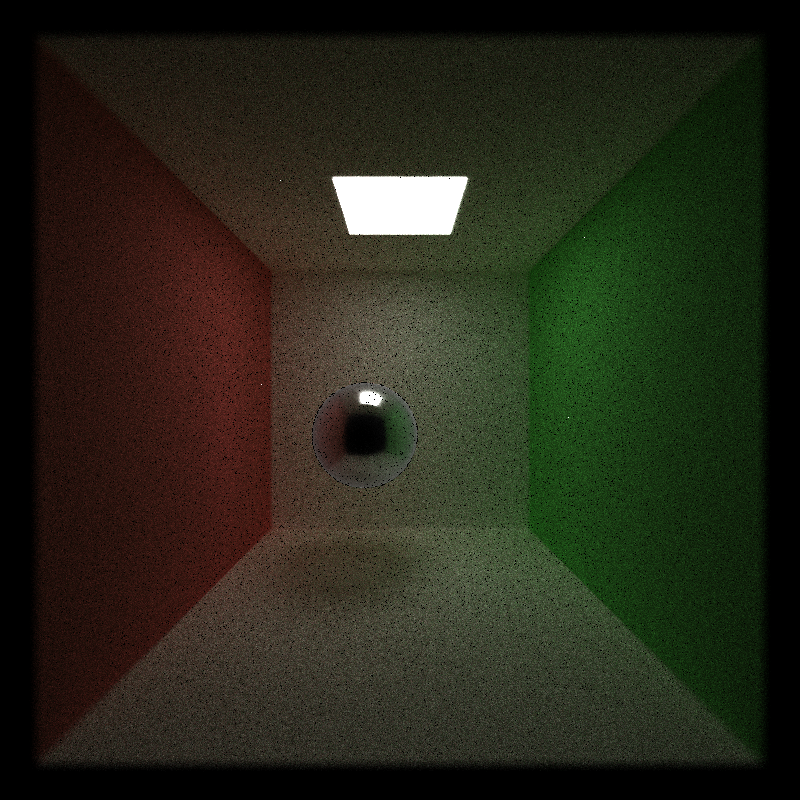
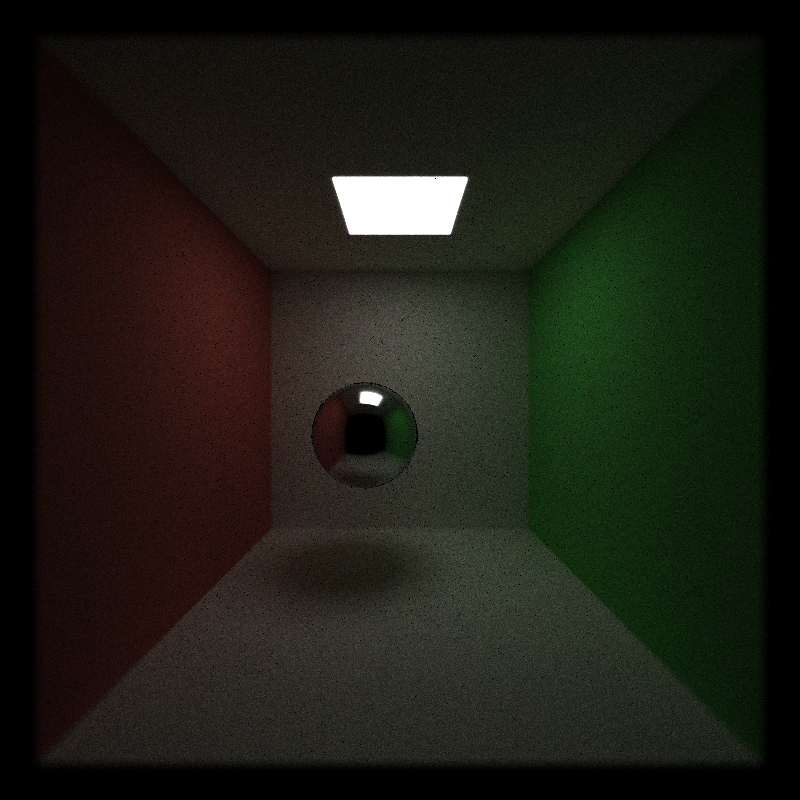
fix: correct material appearance

Changed region(s): [[0.0625, 0.0625, 0.9375, 0.9688]]

diff --git a/src/material.h b/src/material.h
@@ -73,7 +73,7 @@ CPUGPU inline float Schlick_GGX(float cosTheta, float k) {
 	return cosTheta / (cosTheta * (1.f - k) + k);
 }
 CPUGPU inline float Smith_GGX(float cosThetaI, float cosThetaO, float alphaG) {
-	return Schlick_GGX(cosThetaI, alphaG) * Schlick_GGX(cosThetaO, alphaG);
+	return Schlick_GGX(glm::abs(cosThetaI), alphaG) * Schlick_GGX(glm::abs(cosThetaO), alphaG);
 }
 // Normal Distribution Function
 CPUGPU inline float GGX_D(float cosThetaH, float alphaG) {
@@ -83,7 +83,7 @@ CPUGPU inline float GGX_D(float cosThetaH, float alphaG) {
 }
 CPUGPU inline float GGX_Pdf(glm::vec3 n, glm::vec3 m, glm::vec3 wo, float alpha) {
 	return GGX_D(glm::dot(n, m), alpha) * Schlick_GGX(glm::dot(n, wo), alpha) 
-		* fabs(glm::dot(n, m) / glm::dot(n, wo));
+		* fabs(glm::dot(wo, m) / glm::dot(n, wo));
 }
 enum MaterialType {
 	Lambertian,
@@ -121,7 +121,7 @@ struct Material
 		glm::vec3 h = glm::normalize(wo + wi);
 		float cosThetaO = glm::dot(n, wo);
 		float cosThetaI = glm::dot(n, wi);
-		if (cosThetaI * cosThetaO < EPSILON) {
+		if (cosThetaI * cosThetaO < 1e-7f) {
 			return glm::vec3(0.f);
 		}
 		glm::vec3 F = fresnelSchlick(glm::dot(h, wo), glm::mix(glm::vec3(.08f), color, metallic));
@@ -149,7 +149,7 @@ struct Material
 			glm::vec3 h = GGX_sampleNormal(n, wo, glm::vec2(r.x, r.y), alpha);
 			sample.wi = -glm::reflect(wo, h);
 		}
-		if (glm::dot(n, sample.wi) < EPSILON) {
+		if (glm::dot(n, sample.wi) < 0.f) {
 			sample.flags = BxDFFlags::Unset;
 		}
 		else {

diff --git a/src/scene.h b/src/scene.h
@@ -89,15 +89,16 @@ public:
 
 	GPU bool occlusionAccel(glm::vec3 x, glm::vec3 y) {
 		glm::vec3 dir = y - x;
-		float dist = glm::length(dir) - EPSILON;
+		float dist = glm::length(dir);
 		dir = glm::normalize(dir);
 		Ray r = { x, dir };
 		int cur_node = 0;
-		float min_T = dist;
-		int start = getLinearId(-r.direction);
+		float min_T = dist - EPSILON;
+		int start = 0;
 		while (cur_node != devNumNodes) {
-			AABB& bound = deviceBounds[devlinearNodes[cur_node + cur_node].aabbIndex];
-			if (bound.intersect(r, min_T)) {
+			AABB bound = deviceBounds[devlinearNodes[start + cur_node].aabbIndex];
+			float tmp_t = min_T;
+			if (bound.intersect(r, tmp_t)) {
 				if (devlinearNodes[start + cur_node].primIndex != -1) {
 					int primId = devlinearNodes[start + cur_node].primIndex;
 					glm::vec3 tmp_bary;

diff --git a/src/scene.cpp b/src/scene.cpp
@@ -222,6 +222,7 @@ void Scene::toDevice()
 			}
         }
     }
+	std::cout << meshData.vertices.size() / 3 << " triangles" << std::endl;
 	std::cout << lightPrimIds.size() << " light primitives" << std::endl;
 	int bvhsize = BVHBuilder::build(meshData.vertices, bounds, linearNodes, SplitMethod::EQUAL);
 
